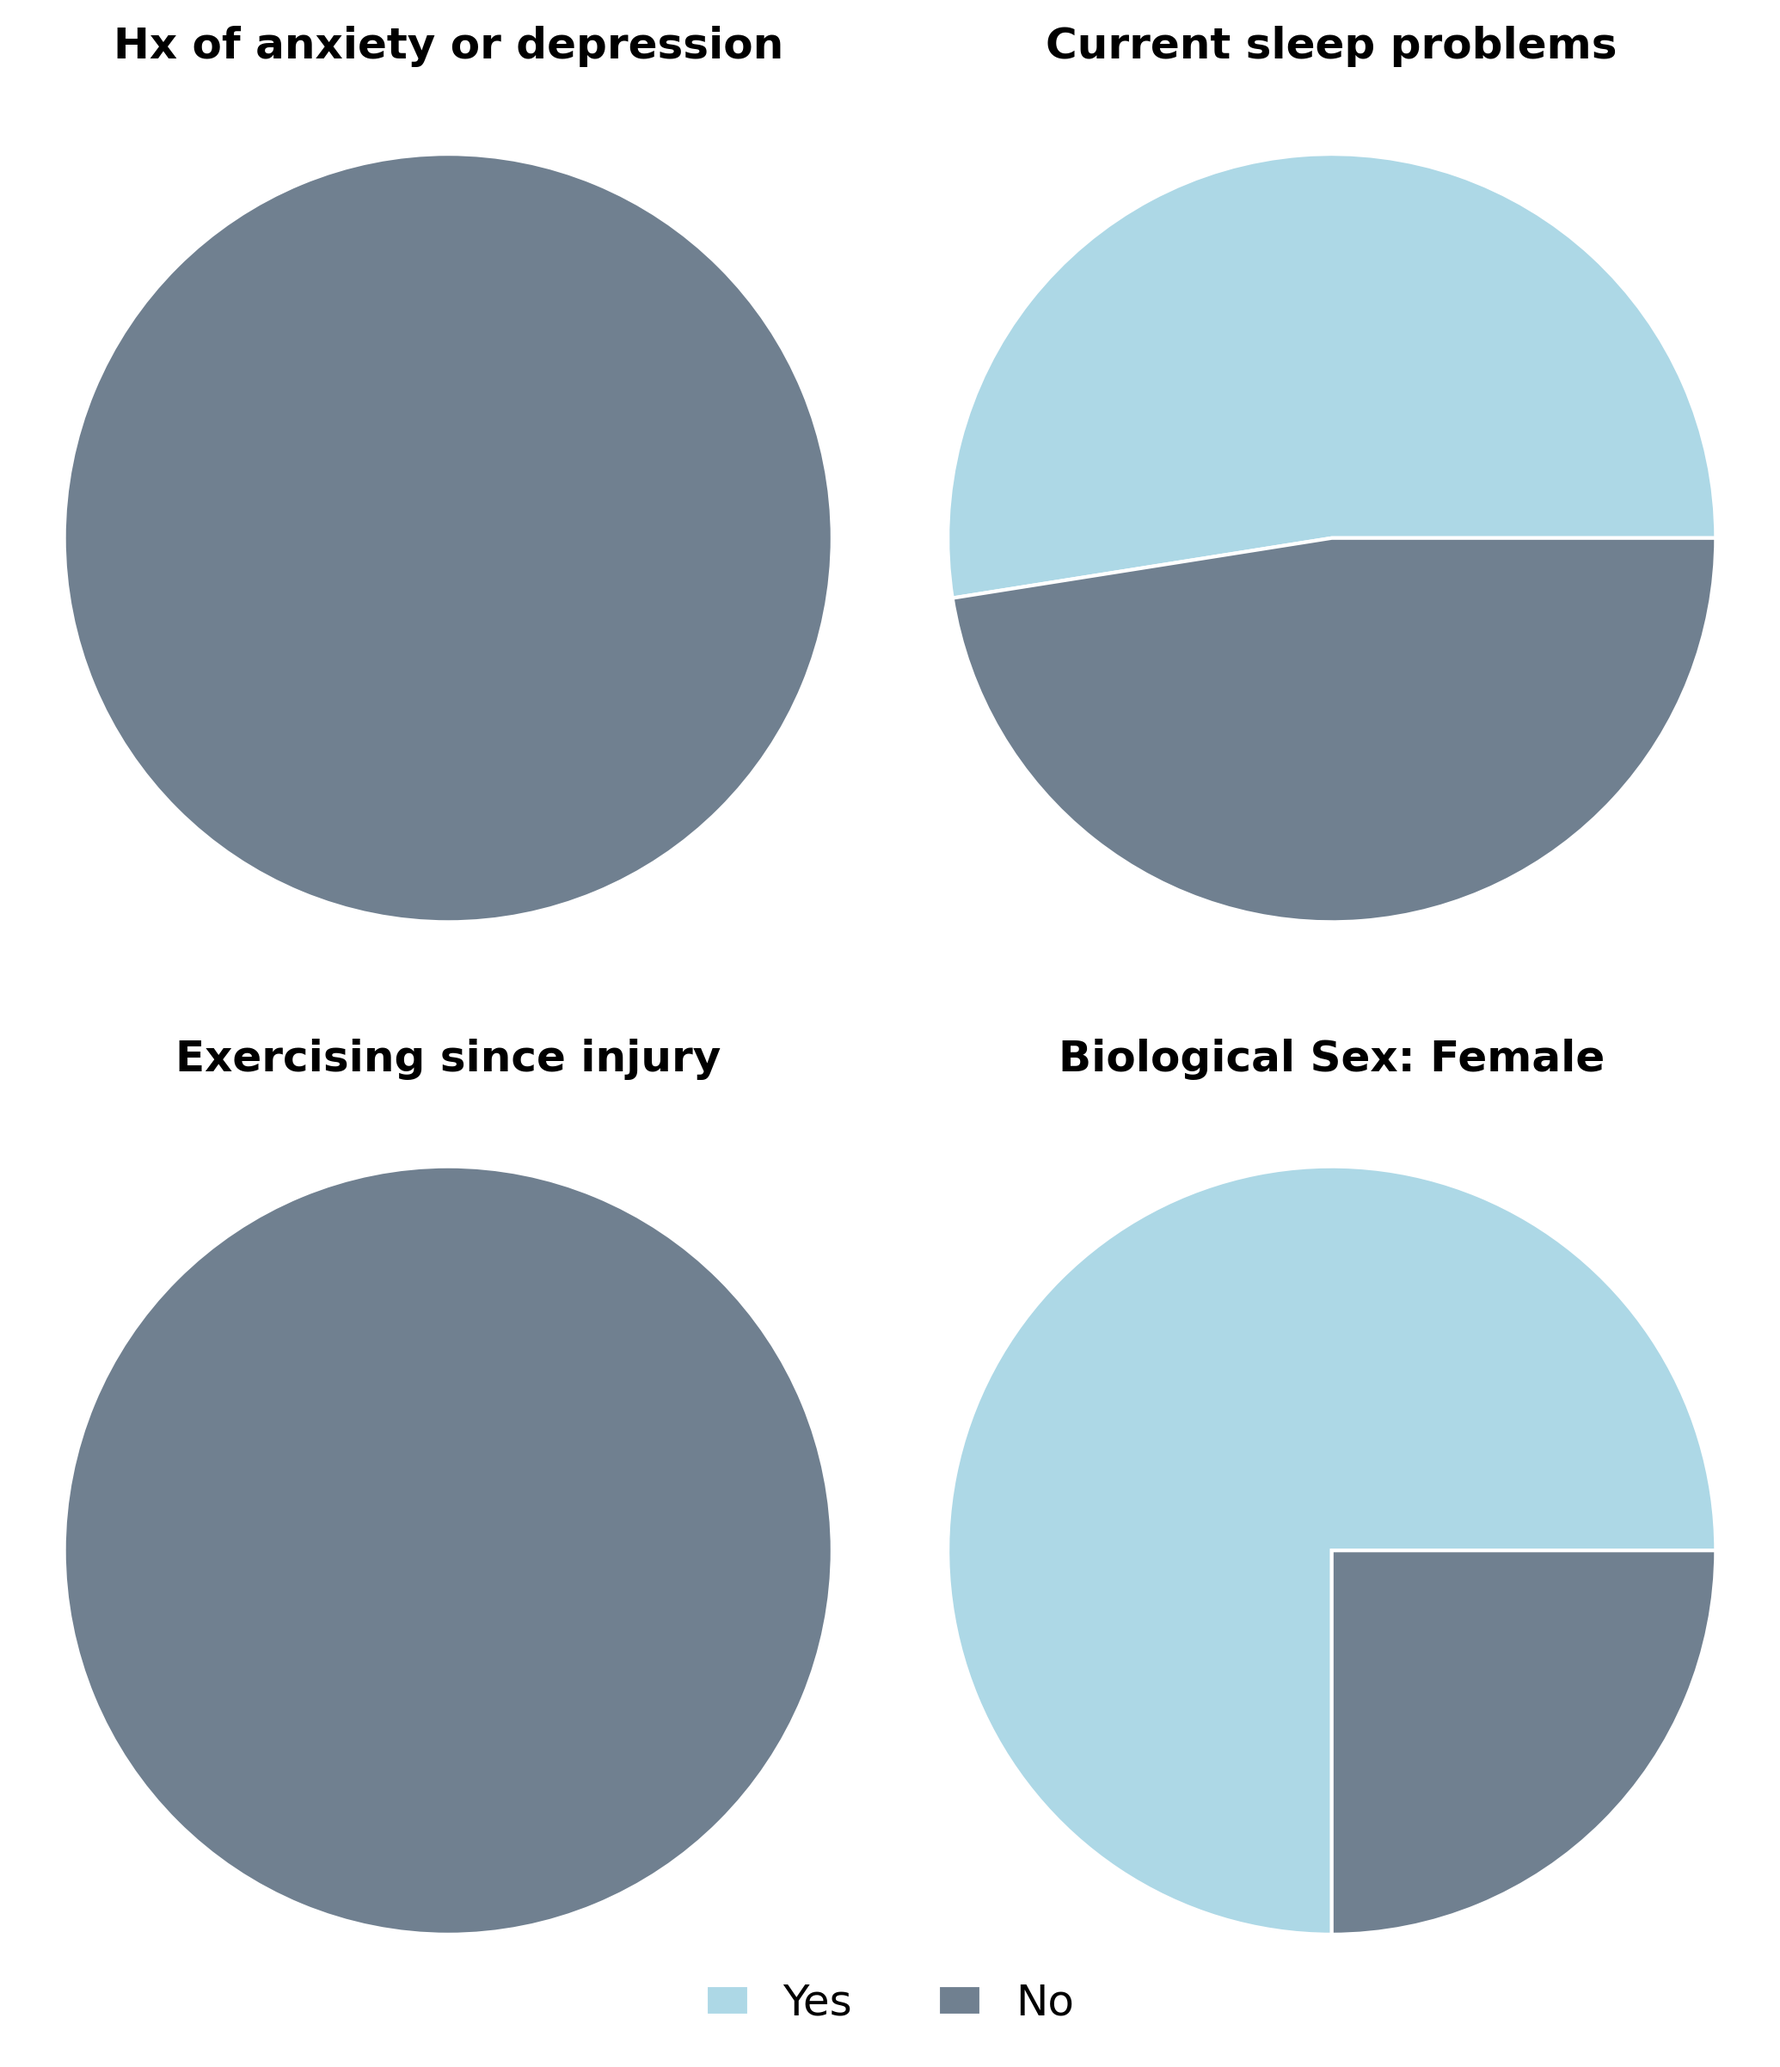
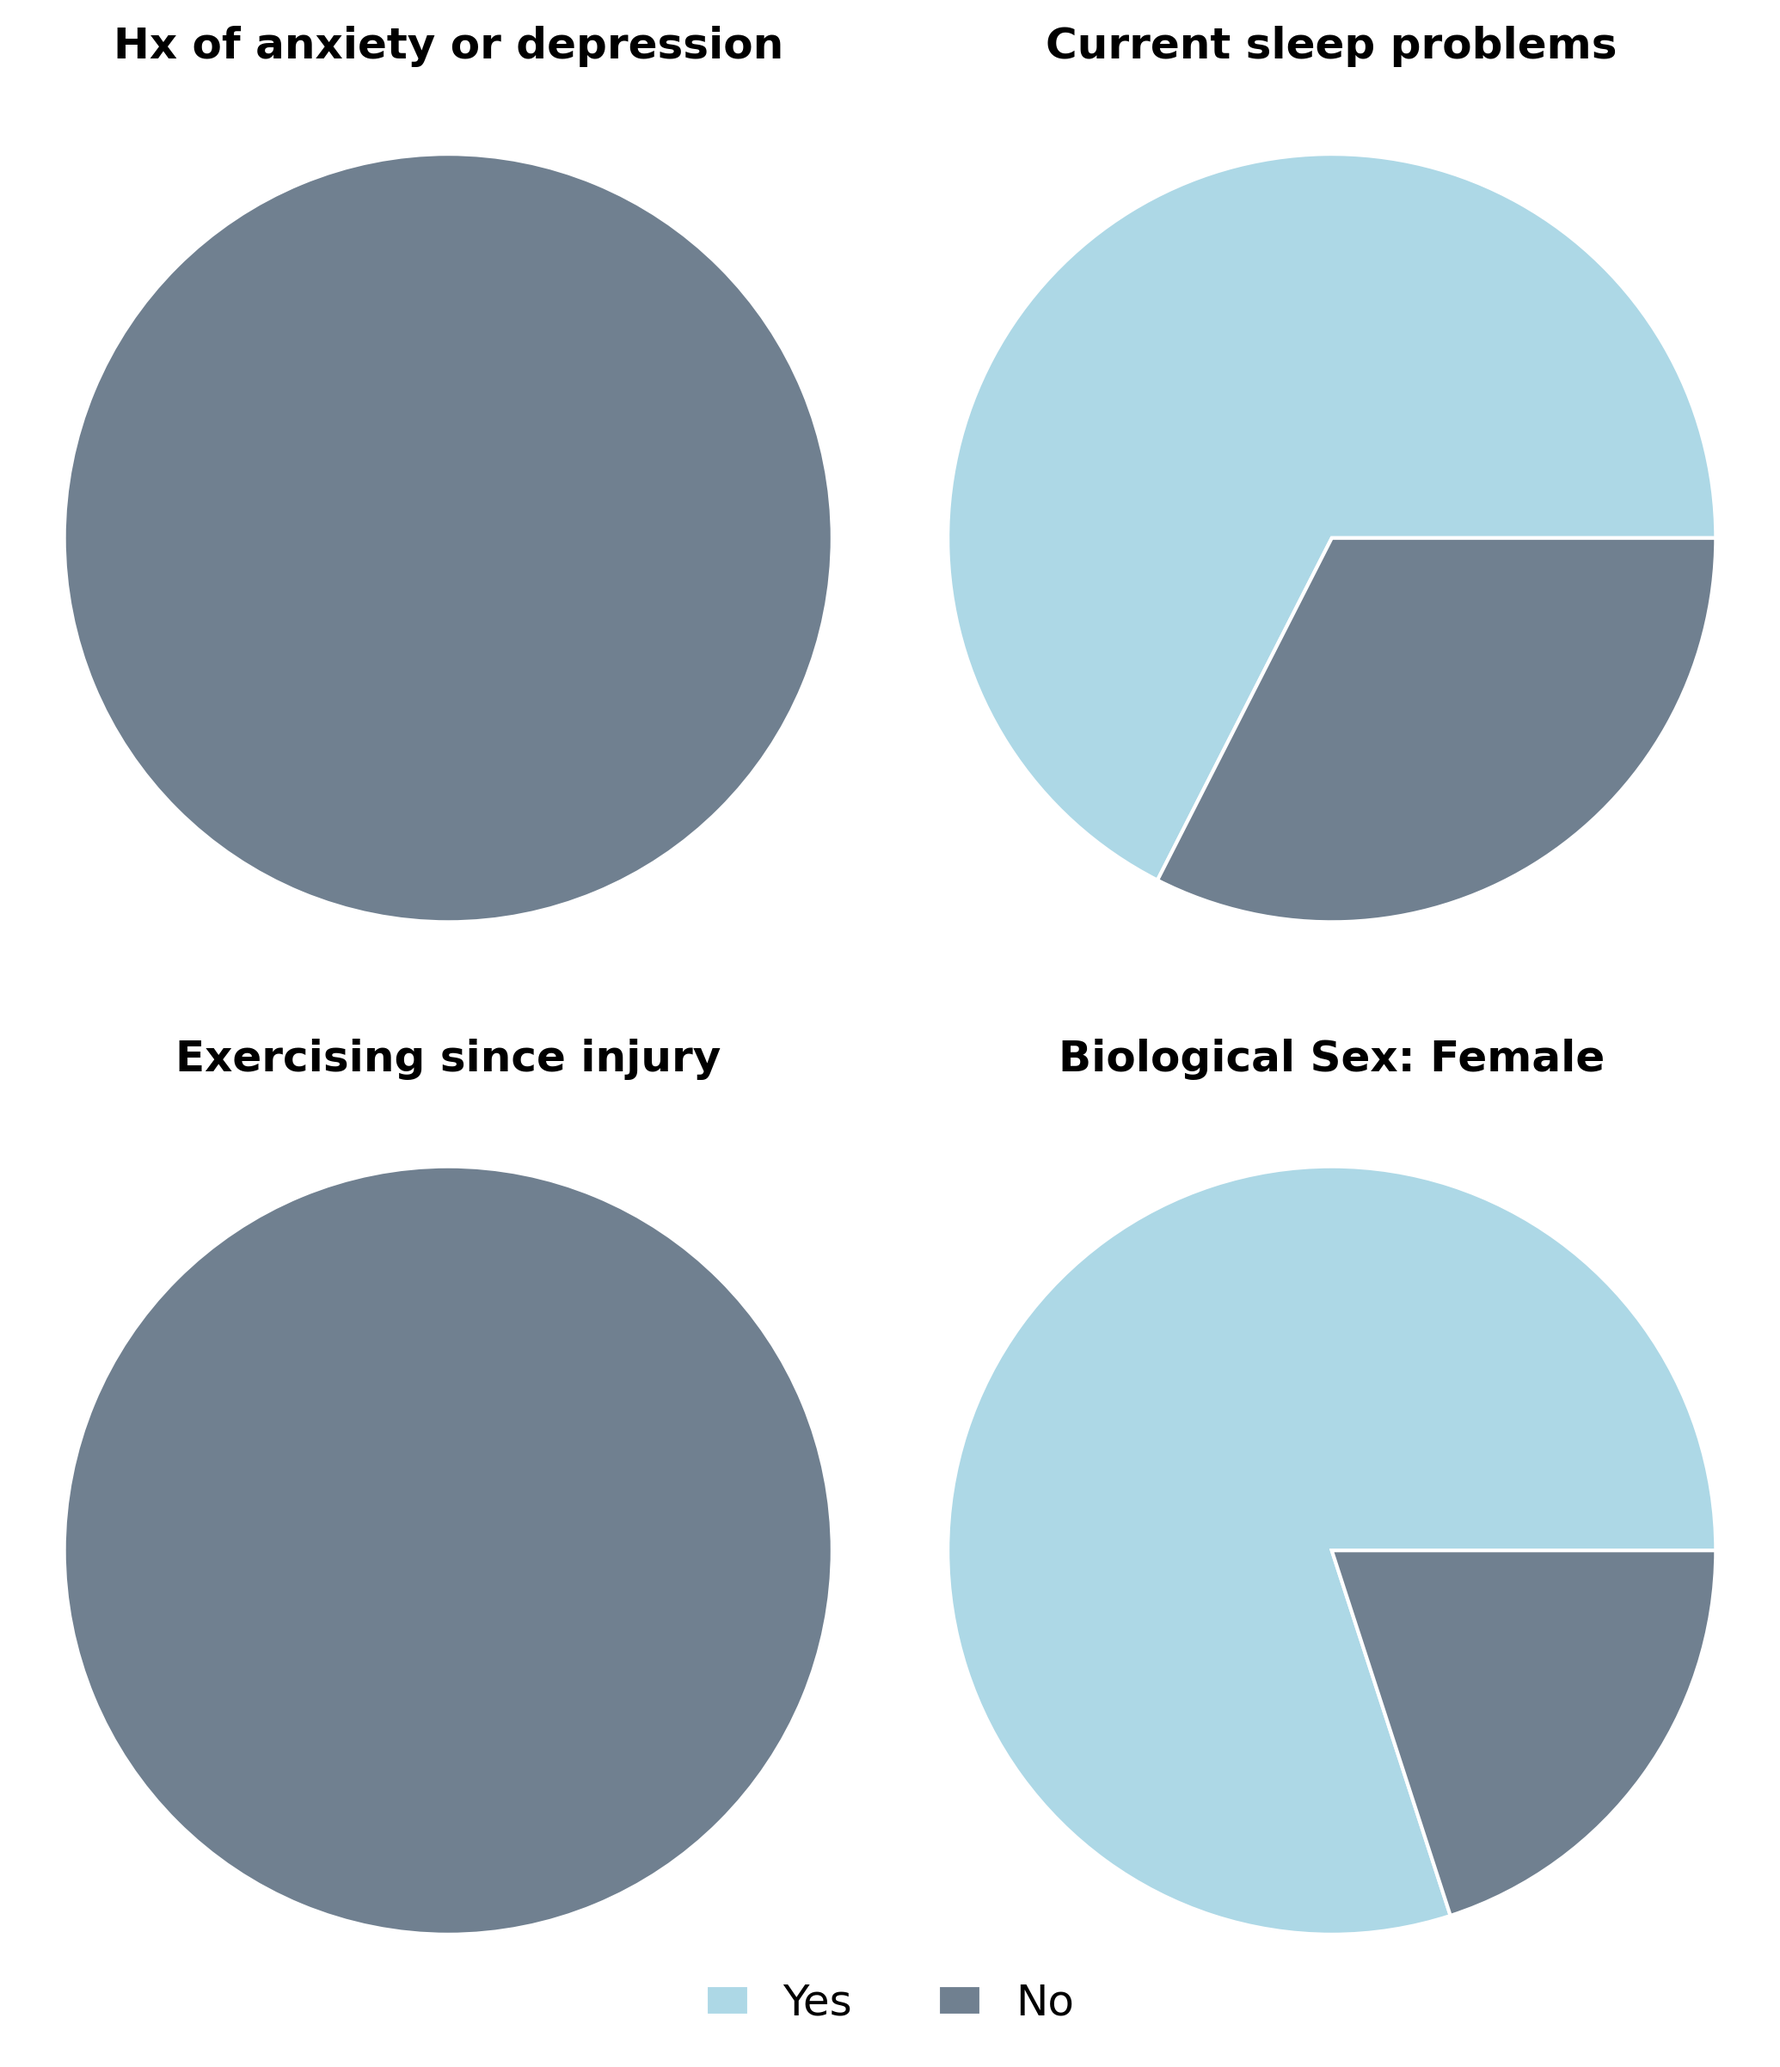
update figures and UMAP

Changed region(s): [[0.5256, 0.2496, 0.742, 0.4368], [0.742, 0.7488, 0.8348, 0.9359]]

diff --git a/mahalanobis_distance.py b/mahalanobis_distance.py
@@ -3,18 +3,24 @@ from pre_processing import y
 from pre_processing import X_mins, X_ranges
 
 import random 
-
 import numpy as np
 import pandas as pd
 pd.set_option("display.max_columns", None)
 
 import matplotlib.pyplot as plt
+from matplotlib.patches import Patch
 import seaborn as sn
 from pywaffle import Waffle
+
+##################### like-me values. defined here and used below
+like_me_value = 40
+like_me_by = 'mahalanobis_distance_to_patient'
+#####################
 
 # assign X from pre_processing to df
 cohort = X
 cohort.head()
+cohort.describe()
 
 # randomly select a row from cohort to use as example patient
 random.seed(12)
@@ -86,6 +92,40 @@ for i, row in cohort.iterrows():
 metrics = ['mahalanobis_distance_to_cohort', 'mahalanobis_distance_to_patient', 'cosine_similarity', 'normalized_dot_product_distance', 'euclidean_distance']
 cohort[metrics].head()
 
+###############
+## Quick comparisons between metrics
+# mahalanobis vs euclidean
+plt.figure()
+plt.scatter(x=cohort['mahalanobis_distance_to_patient'], y=cohort['euclidean_distance'])
+plt.show()
+
+# mahalanobis vs cosine_similarity
+plt.figure()
+plt.scatter(x=cohort['mahalanobis_distance_to_patient'], y=cohort['cosine_similarity'])
+plt.show()
+
+# mahalanobis vs normalized_dot_product_distance
+plt.figure()
+plt.scatter(x=cohort['mahalanobis_distance_to_patient'], y=cohort['normalized_dot_product_distance'])
+plt.show()
+
+#############
+# cosine_similarity vs euclidean
+plt.figure()
+plt.scatter(x=cohort['cosine_similarity'], y=cohort['euclidean_distance'])
+plt.show()
+
+# cosine_similarity vs normalized_dot_product_distance
+plt.figure()
+plt.scatter(x=cohort['cosine_similarity'], y=cohort['normalized_dot_product_distance'])
+plt.show()
+
+################
+# euclidean_distance vs normalized_dot_product_distance
+plt.figure()
+plt.scatter(x=cohort['euclidean_distance'], y=cohort['normalized_dot_product_distance'])
+plt.show()
+
 ###################
 ## Plot KDE of mahalanobis_distance_to_cohort
 # plot cohort, vertical line for pt_mahalanobis_distance_from_cohort
@@ -103,12 +143,10 @@ plt.xlabel("Mahalanobis Distances")
 plt.ylabel("Smoothed Kernel Density")
 plt.legend(loc='upper center', bbox_to_anchor=(0.5, 1.1))
 plt.savefig("./figs/kde_plot_example", dpi=300)
-plt.show()
 
 #################
 ## like-me cohort
-like_me_value = 40
-like_me_by = 'mahalanobis_distance_to_patient'
+## Values defined above!!
 idx = cohort[like_me_by].nsmallest(like_me_value).index
 like_me_cohort = cohort.loc[idx]
 like_me_y = y.loc[idx]
@@ -173,12 +211,9 @@ axes[2, 1].set_ylabel("Number of prior concussions", fontsize=12)
 
 plt.tight_layout()
 plt.savefig("./figs/like_me_aggregated_X", dpi=300, bbox_inches='tight')
-plt.show()
 
 #############
 ## plot binary variables too
-
-from matplotlib.patches import Patch
 vars_ = ['anx_dep', 'current_sleep_problems', 'exercise_since_injury', 'sex1f']
 labels = ['Yes', 'No']
 colors = ['lightblue', 'slategrey']
@@ -207,7 +242,6 @@ handles = [
 fig.legend(handles=handles, loc="upper center", ncol=2, bbox_to_anchor=(0.5, 0.05), frameon=False, handlelength=1, prop={'size': 12})
 plt.tight_layout()
 plt.savefig("./figs/like_me_aggregated_X_categoricals", dpi=300, bbox_inches='tight')
-plt.show()
 
 ################
 ## plot y as well
@@ -226,7 +260,6 @@ plt.ylabel("Smoothed Kernel Density")
 plt.legend(loc='upper center', bbox_to_anchor=(0.5, 1.125))
 plt.tight_layout()
 plt.savefig("./figs/like_me_aggregated_time_sx", dpi=300)
-plt.show()
 
 # time to rtp
 plt.figure(figsize=(12,8))
@@ -243,7 +276,6 @@ plt.ylabel("Smoothed Kernel Density")
 plt.legend(loc='upper center', bbox_to_anchor=(0.5, 1.125))
 plt.tight_layout()
 plt.savefig("./figs/like_me_aggregated_time_rtp", dpi=300)
-plt.show()
 
 # waffle plot for percent psac
 nanFilled_PPCS = pd.to_numeric(like_me_y['PPCS'], errors='coerce')
@@ -264,4 +296,3 @@ plt.figure(
 )
 plt.tight_layout()
 plt.savefig("./figs/like_me_aggregated_PSaC", dpi=300)
-plt.show()

diff --git a/pre_processing.py b/pre_processing.py
@@ -1,5 +1,6 @@
 import pandas as pd
 import numpy as np
+pd.set_option("display.max_columns", None)
 
 from sklearn.impute import KNNImputer
 
@@ -11,19 +12,18 @@ df.columns
 df.shape
 
 # drop a few extra cols
-df.drop(columns = ['bess_hard1', 'bess_hard2', 'bess_hard3'], inplace=True)
+df.drop(columns = ['bess_hard1', 'bess_hard2', 'bess_hard3', 'loc', 'add_adhd', 'ld_dyslexia', 'migraines'], inplace=True)
 
 # check value counts
-categoricals = ['sex1f', 'loc', 'number_prior_conc', 'add_adhd', 'ld_dyslexia', 'anxiety', 'depression', 'migraines', 'exercise_since_injury', 'headache_severity', 'current_sleep_problems']
+categoricals = ['sex1f', 'number_prior_conc', 'anxiety', 'depression', 'exercise_since_injury', 'headache_severity', 'current_sleep_problems']
 for col in categoricals:
     print(df[col].value_counts())
 
 # combine cols with low value counts
-df['learn_disord'] = np.where((df['ld_dyslexia'] == 1) | (df['add_adhd'] == 1), 1, 0)
 df['anx_dep'] = np.where((df['anxiety'] == 1) | (df['depression'] == 1), 1, 0)
 
 # drop low value count cols
-df.drop(columns = ['ld_dyslexia', 'add_adhd', 'anxiety', 'depression'], inplace=True)
+df.drop(columns = ['anxiety', 'depression'], inplace=True)
 
 ##############
 ## Separate the recovery outcomes from the actual features used for similarity comparison
@@ -33,26 +33,19 @@ y = df[['time_sx', 'PPCS', 'time_rtp']]
 #############
 ## Check for missingness 
 X.isna().sum()
-X.iloc[:,0:5].describe()
-X.iloc[:,5:8].describe()
-X.iloc[:,8:].describe()
+X.describe()
 
 # KNN imputer
 imputer = KNNImputer(n_neighbors=20)
 X = pd.DataFrame(imputer.fit_transform(X), columns=X.columns, index=X.index)
 
 # Check cols
-for col in X.columns[:5]:
-    print(X[col].value_counts())
-
-for col in X.columns[5:10]:
+for col in X.columns:
     print(X[col].value_counts())
 
 # round all cols except age to nearest whole num
-col_to_round = ['time_since_injury', 'sex1f', 'loc', 'number_prior_conc',
-       'migraines', 'exercise_since_injury', 'headache_severity',
-       'current_sleep_problems', 'BESS_total', 'HBI_total', 'learn_disord',
-       'anx_dep']
+col_to_round = ['time_since_injury', 'sex1f', 'number_prior_conc', 'exercise_since_injury', 
+    'headache_severity', 'current_sleep_problems', 'BESS_total', 'HBI_total', 'anx_dep']
 
 for col in col_to_round:
     X[col] = np.round(X[col])
@@ -69,6 +62,4 @@ for col in X.columns:
     X[col] = (X[col] - np.min(X[col])) / (np.max(X[col]) - np.min(X[col]))
 
 # Summarize 
-X.iloc[:,0:5].describe()
-X.iloc[:,5:8].describe()
-X.iloc[:,8:].describe()
+X.describe()

diff --git a/UMAP_and_cluster.py b/UMAP_and_cluster.py
@@ -33,10 +33,10 @@ plt.figure(figsize=(6, 5))
 plt.scatter(two_dim[cohort_mask, 0], two_dim[cohort_mask, 1], s=16, alpha=0.7, label='Cohort', color='lightgrey')
 plt.scatter(two_dim[like_me_mask, 0], two_dim[like_me_mask, 1], s=28, alpha=0.9, label='Like-me patients', color='slategrey')
 plt.scatter(two_dim[patient_mask, 0], two_dim[patient_mask, 1], s=80, marker='x', linewidths=2, label='Patient', color='firebrick')
-
 plt.legend(loc='best', frameon=False)
 plt.xlabel('UMAP-1'); plt.ylabel('UMAP-2')
 plt.tight_layout()
+plt.savefig("./figs/UMAP", dpi=300)
 plt.show()
 
 
